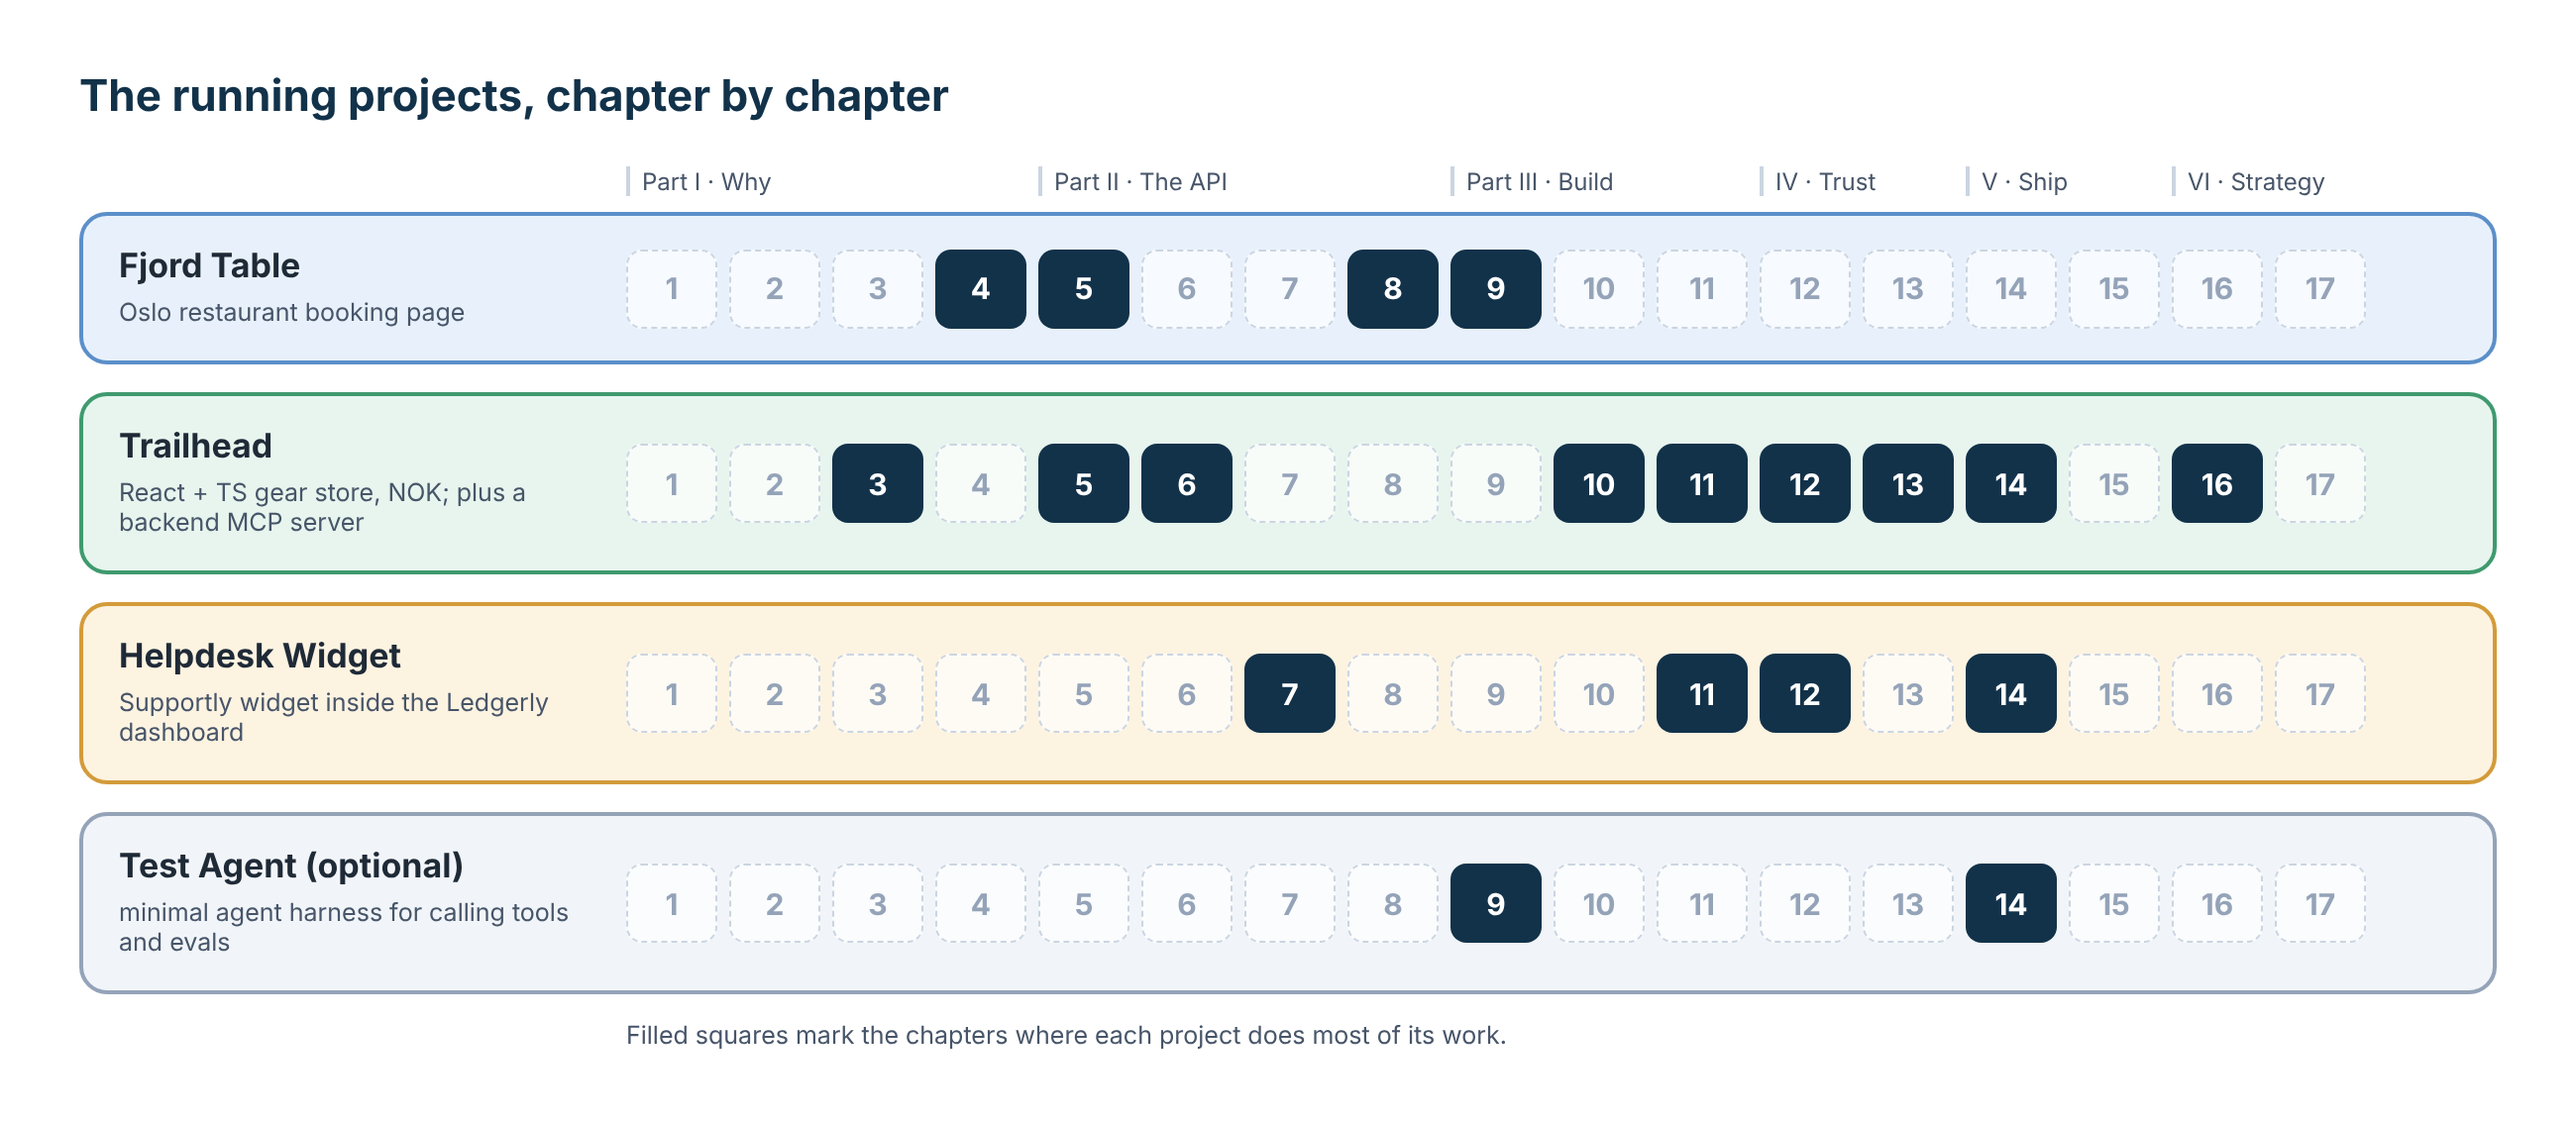
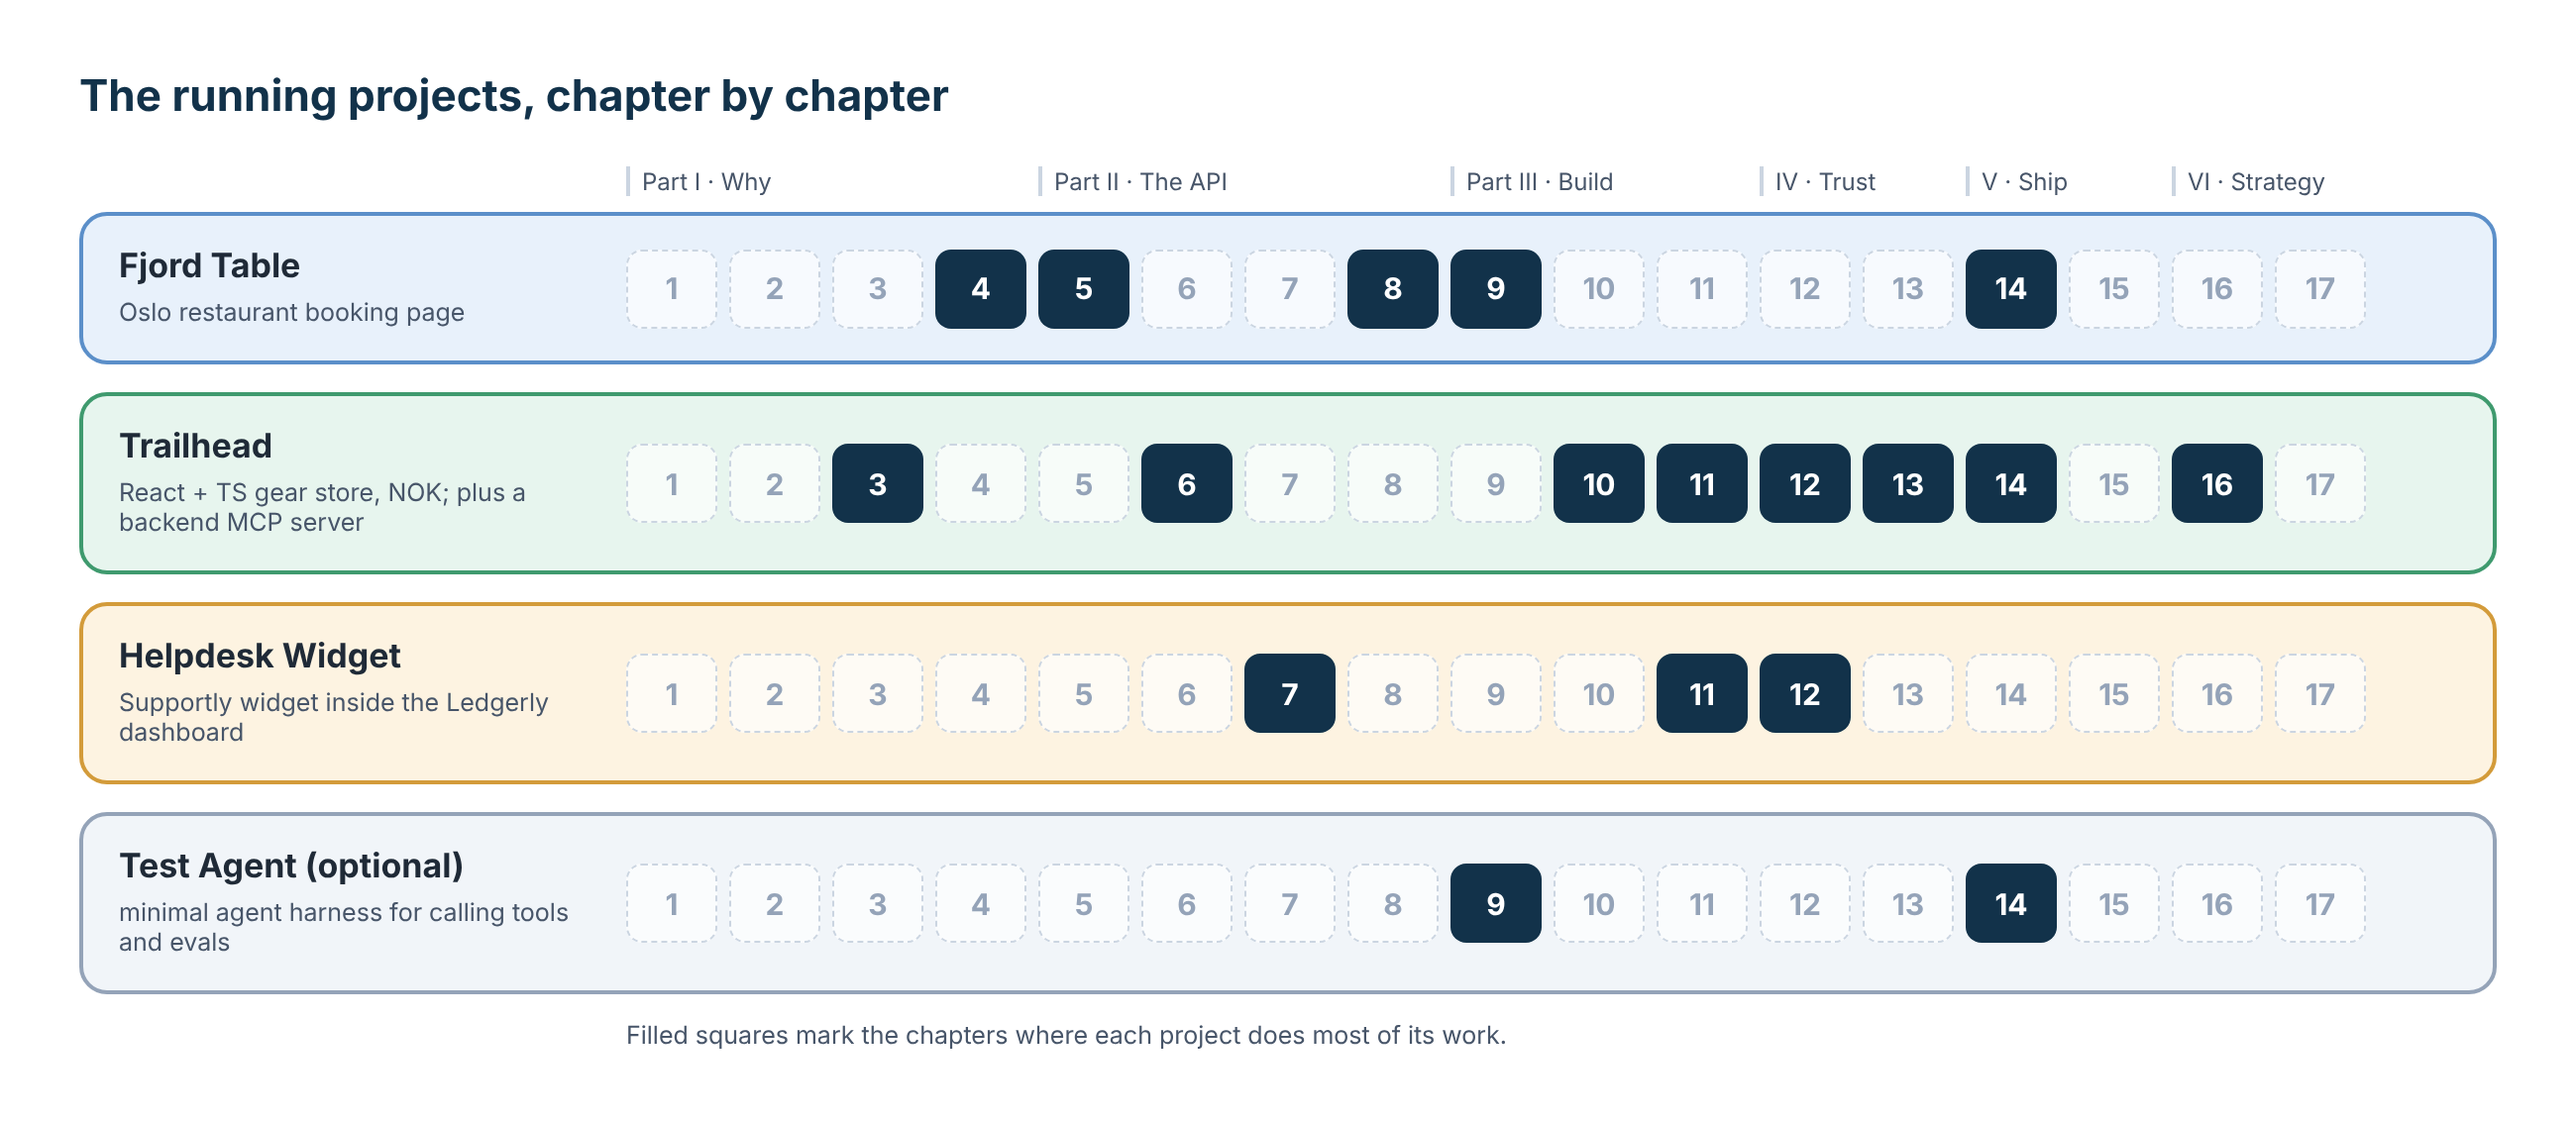
Tech review: chapter 1

Changed region(s): [[0.7477, 0.216, 0.81, 0.3086], [0.7477, 0.5864, 0.81, 0.6481], [0.405, 0.3704, 0.4362, 0.463]]

diff --git a/chapters/01-the-agentic-web-arrives/WebMCP_Ch01_The_Agentic_Web_Arrives.md b/chapters/01-the-agentic-web-arrives/WebMCP_Ch01_The_Agentic_Web_Arrives.md
@@ -162,13 +162,13 @@ WebMCP is not finished, and it is not uncontroversial. Chapter 4 and Chapter 15 
 
 > **Still in flux: the agent landscape**
 >
-> The products named in this chapter change quickly. Assistants gain and lose agent features, extensions move out of preview, and pricing and availability vary by country. WebMCP support among agents is younger still. As of 14 October 2026, the explainer’s implementation status page lists ChatGPT Desktop as supporting WebMCP, experimental support in Brave’s Leo, and Meta Ray-Ban Display as “coming soon”.[^16] Check that page, rather than this chapter, before you decide which agents your tools will meet first.
+> The products named in this chapter change quickly. Assistants gain and lose agent features, extensions move out of preview, and pricing and availability vary by country. WebMCP support among agents is younger still. As of 15 October 2026, the explainer’s implementation status page lists ChatGPT Desktop as supporting WebMCP, experimental support in Brave’s Leo, and Meta Ray-Ban Display as “coming soon”.[^16] Check that page, rather than this chapter, before you decide which agents your tools will meet first.
 
 ## The projects in this book
 
 Concepts are easier to hold on to when they are attached to something you are building. Four projects run through the book. You will meet them properly in the chapters that use them, but here is the cast, with the chapters where each one does most of its work (Table 1.2 and Figure 1.3).
 
-*Fjord Table* is a small restaurant in Oslo with a booking page. It is deliberately modest: a date, a time, a party size and a seating preference. It is the book’s first WebMCP site. Chapter 4 uses it to show the idea, and Chapter 5 gives it two tools, `search_availability` and `book_table`, the second of which never completes a booking without the guest confirming it in Fjord Table’s own dialog. Chapter 8 rebuilds its form with the experimental declarative API, and Chapter 9 takes it end to end, from flag to deployment.
+*Fjord Table* is a small restaurant in Oslo with a booking page. It is deliberately modest: a date, a time, a party size and a seating preference. It is the book’s first WebMCP site. Chapter 4 uses it to show the idea, and Chapter 5 gives it two tools, `search_availability` and `book_table`, the second of which never completes a booking without the guest confirming it in Fjord Table’s own dialog. Chapter 8 rebuilds its form with the experimental declarative API, Chapter 9 takes it end to end, from flag to deployment, and Chapter 14 puts its tools under test.
 
 *Trailhead* is the outdoor-gear store from this chapter’s opening: a React and TypeScript storefront with prices in Norwegian kroner. It is the book’s main production-shaped app. Its tools are `search_products`, `compare_products`, `add_to_cart`, `get_cart` and `checkout`, and the last one is marked as consequential, so the page shows its own confirmation and nothing is bought without the user’s click. Trailhead also gets a companion backend MCP server in Chapter 3, which makes the difference between server-side and in-page tools concrete. It carries the chapters on annotations and errors, frameworks, tool design, security, privacy, testing and the business case.
 
@@ -178,9 +178,9 @@ Concepts are easier to hold on to when they are attached to something you are bu
 
 | Project | What it is | What it teaches | Main chapters |
 |---|---|---|---|
-| Fjord Table | An Oslo restaurant’s booking page | First tools, confirmation in the site’s own UI, the declarative API, an end-to-end first app | 4, 5, 8, 9 |
-| Trailhead | A React + TypeScript outdoor-gear store, prices in NOK | Annotations, errors, frameworks, tool design, consent, evals, the business case; plus a backend MCP server | 3, 5, 6, 10–14, 16 |
-| Helpdesk Widget | Supportly’s widget inside the Ledgerly dashboard | Permissions Policy, cross-origin exposure, in-page agents, cross-origin threats | 7, 11, 12, 14 |
+| Fjord Table | An Oslo restaurant’s booking page | First tools, confirmation in the site’s own UI, the declarative API, an end-to-end first app, testing | 4, 5, 8, 9, 14 |
+| Trailhead | A React + TypeScript outdoor-gear store, prices in NOK | Annotations, errors, frameworks, tool design, consent, evals, the business case; plus a backend MCP server | 3, 6, 10–14, 16 |
+| Helpdesk Widget | Supportly’s widget inside the Ledgerly dashboard | Permissions Policy, cross-origin exposure, in-page agents, cross-origin threats | 7, 11, 12 |
 | Test Agent (optional) | A minimal agent harness | Calling tools and running evals without a commercial assistant | 9, 14 |
 
 *Table 1.2 — The running projects and where they appear.*
@@ -211,7 +211,7 @@ Here is what it does not cover.
 - *How to build an agent.* The book is about the site’s side of the conversation. It explains enough about agents to make sense of how your tools will be used, and the optional Test Agent is deliberately small. It is not a guide to prompting, model selection or agent frameworks.
 - *Backend integrations in depth.* Chapter 3 teaches enough MCP to build a working server and to understand WebMCP’s vocabulary. For production MCP servers, the protocol’s own documentation goes much further.
 - *Making actuation better.* Your site should still work well for agents that click, and much of what makes a site easier for agents to click through (semantic HTML, proper labels, a good accessibility tree) is also good for people. The explainer is explicit that WebMCP “will not conflict with these existing automation techniques.”[^9] But this book is about the structured alternative, not about tuning your markup for screenshot readers.
-- *A stable standard.* There isn’t one yet. WebMCP is a draft. The current version of the specification, dated 14 October 2026, describes itself as a Draft Community Group Report that “is not a W3C Standard nor is it on the W3C Standards Track.”[^2] The book teaches the API as it stands in that draft and in the Chromium origin trials, flags every part that is unsettled with a *Still in flux* box like the ones in this chapter, and explains the debates so that you can follow them after publication.
+- *A stable standard.* There isn’t one yet. WebMCP is a draft. The current version of the specification, dated 15 October 2026, describes itself as a Draft Community Group Report that “is not a W3C Standard nor is it on the W3C Standards Track.”[^2] The book teaches the API as it stands in that draft and in the Chromium origin trials, flags every part that is unsettled with a *Still in flux* box like the ones in this chapter, and explains the debates so that you can follow them after publication.
 
 > **Still in flux: reading a book about a moving target**
 >
@@ -231,10 +231,10 @@ Here is what it does not cover.
 ## Notes
 
 [^1]: Anthropic, “Piloting Claude in Chrome” (25 August 2025; updates of 24 November and 18 December 2025). <https://www.anthropic.com/news/claude-for-chrome>
-[^2]: WebMCP specification, Draft Community Group Report, 14 October 2026, Status of this document, §1 Introduction and §2 Terminology. <https://webmachinelearning.github.io/webmcp/>
+[^2]: WebMCP specification, Draft Community Group Report, 15 October 2026, Status of this document, §1 Introduction and §2 Terminology. <https://webmachinelearning.github.io/webmcp/>
 [^3]: Parisa Tabriz, “Chrome: The browser you love, reimagined with AI”, Google Keyword blog (18 September 2025). <https://blog.google/products/chrome/chrome-reimagined-with-ai/>
-[^4]: OpenAI, “Introducing ChatGPT Atlas” (October 2025). <https://openai.com/index/introducing-chatgpt-atlas/>
-[^5]: OpenAI Help Center, “ChatGPT Atlas retirement”. <https://help.openai.com/en/articles/20001371-chatgpt-atlas-retirement>
+[^4]: OpenAI, “Introducing ChatGPT Atlas” (21 October 2025). <https://openai.com/index/introducing-chatgpt-atlas/>
+[^5]: OpenAI Help Center, “ChatGPT Atlas retirement” (read 15 October 2026: “ChatGPT Atlas has been retired and no longer receives updates”). <https://help.openai.com/en/articles/20001371-chatgpt-atlas-retirement>
 [^6]: Perplexity, “Comet Browser: a Personal AI Assistant” (product page). <https://www.perplexity.ai/comet>
 [^7]: Chrome for Developers, “WebMCP” (published 18 May 2026, updated 7 October 2026), including “Why WebMCP?”, “Use cases”, “Limitations” and “Imitate an agent to test your tools”. <https://developer.chrome.com/docs/ai/webmcp>
 [^8]: OpenAI, “Introducing Operator”, including the update of 17 July 2025 (“Operator is now fully integrated into ChatGPT as ChatGPT agent”) and the section on safety. <https://openai.com/index/introducing-operator/>
@@ -245,5 +245,5 @@ Here is what it does not cover.
 [^13]: Artem Chaikin and Shivan Kaul Sahib, “Agentic Browser Security: Indirect Prompt Injection in Perplexity Comet”, Brave blog (20 August 2025). <https://brave.com/blog/comet-prompt-injection/>
 [^14]: Shuyan Zhou et al., “WebArena: A Realistic Web Environment for Building Autonomous Agents”, arXiv:2307.13854 (v1 25 July 2023; v4 16 April 2024), abstract. <https://arxiv.org/abs/2307.13854>
 [^15]: WebMCP explainer, “Goals & Non-Goals”. <https://github.com/webmachinelearning/webmcp#goals--non-goals>
-[^16]: WebMCP, “Browser and Agent Implementation Status”, webmachinelearning/webmcp (read 14 October 2026). <https://github.com/webmachinelearning/webmcp/blob/main/implementation-status.md>
+[^16]: WebMCP, “Browser and Agent Implementation Status”, webmachinelearning/webmcp (read 15 October 2026). <https://github.com/webmachinelearning/webmcp/blob/main/implementation-status.md>
 [^17]: vibeprogrammer/webmcp-book-demos, the companion repository for this book. <https://github.com/vibeprogrammer/webmcp-book-demos>
